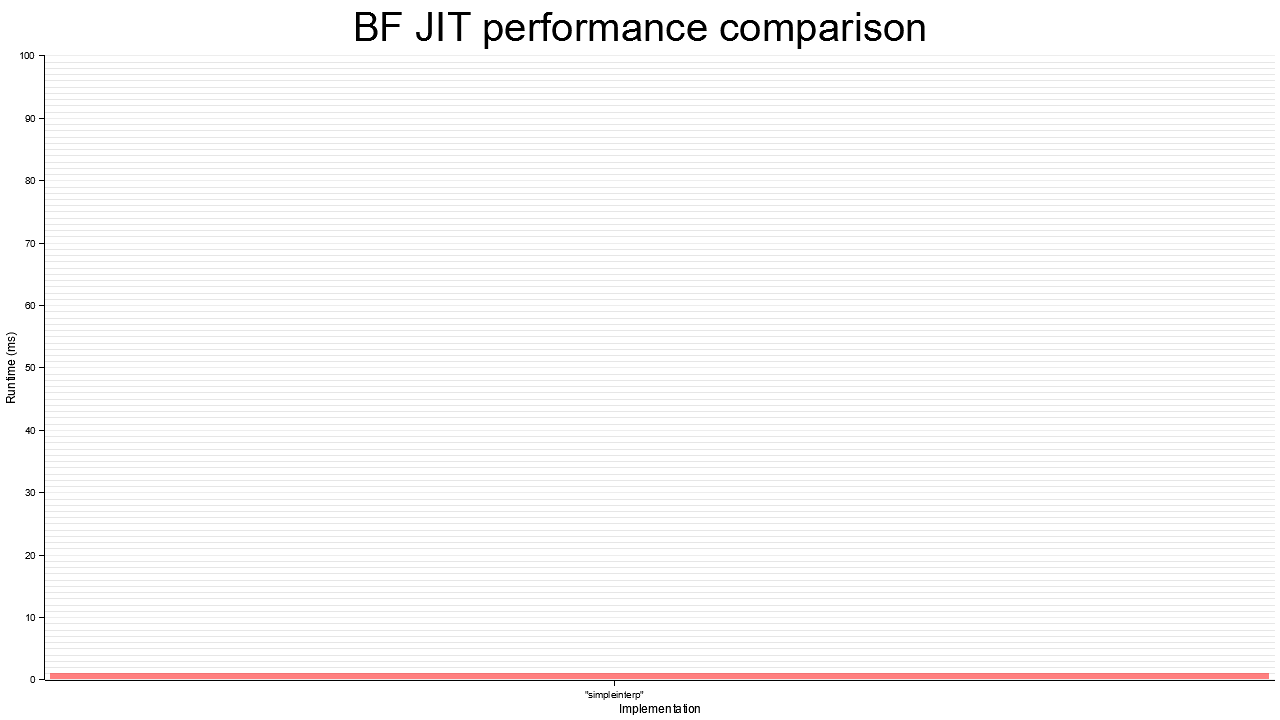
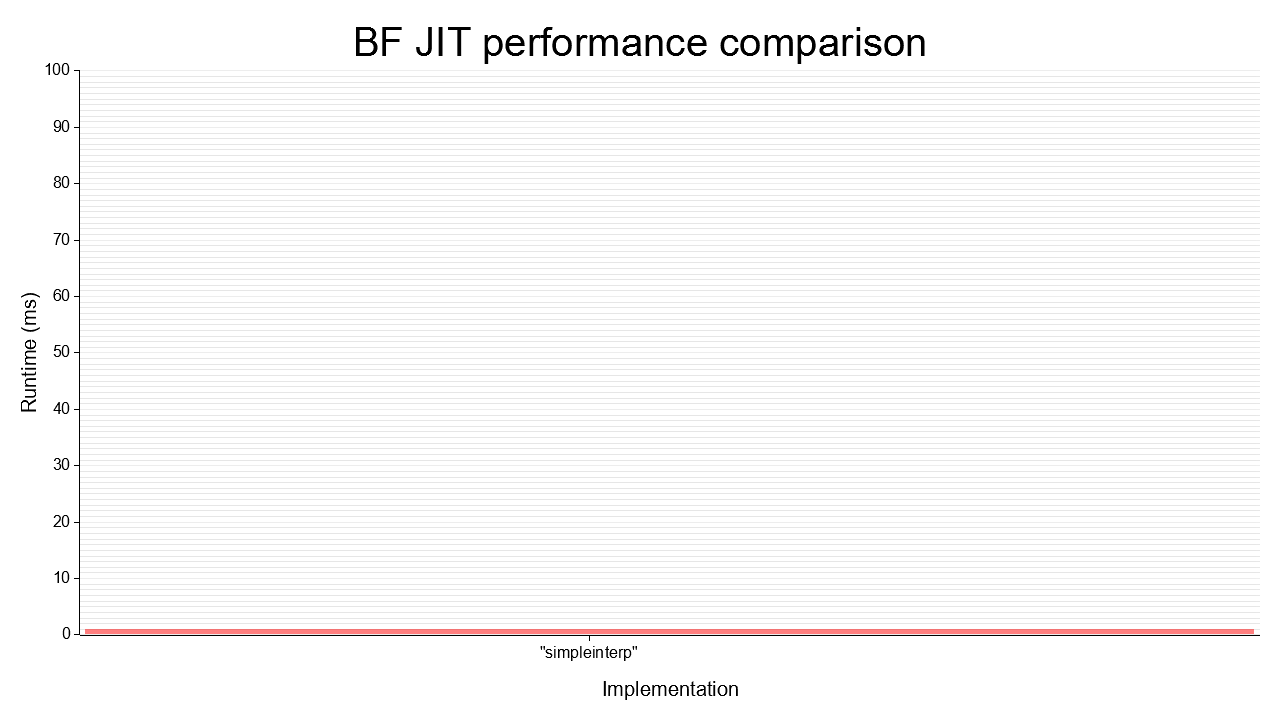
Improve text sizing

Changed region(s): [[0.0, 0.0, 1.0, 1.0]]

diff --git a/bench/src/lib.rs b/bench/src/lib.rs
@@ -52,9 +52,9 @@ fn create_graph<const N: usize>(perf_millis: [ImplInfo; N]) -> Result<(), BfErro
     let max_value = perf_millis.iter().map(|x| x.millis).max().unwrap();
 
     let mut chart = ChartBuilder::on(&root)
-        .x_label_area_size(35)
-        .y_label_area_size(40)
-        .margin(5)
+        .x_label_area_size(65)
+        .y_label_area_size(60)
+        .margin(20)
         .caption("BF JIT performance comparison", ("sans-serif", 50.0))
         .build_cartesian_2d(names.into_segmented(), 0u128..(max_value + 100))?;
     chart
@@ -63,7 +63,8 @@ fn create_graph<const N: usize>(perf_millis: [ImplInfo; N]) -> Result<(), BfErro
         .bold_line_style(&WHITE.mix(0.3))
         .y_desc("Runtime (ms)")
         .x_desc("Implementation")
-        .axis_desc_style(("sans-serif", 15))
+        .axis_desc_style(("sans-serif", 25))
+        .label_style(("sans-serif", 20))
         .draw()?;
 
     chart.draw_series(
